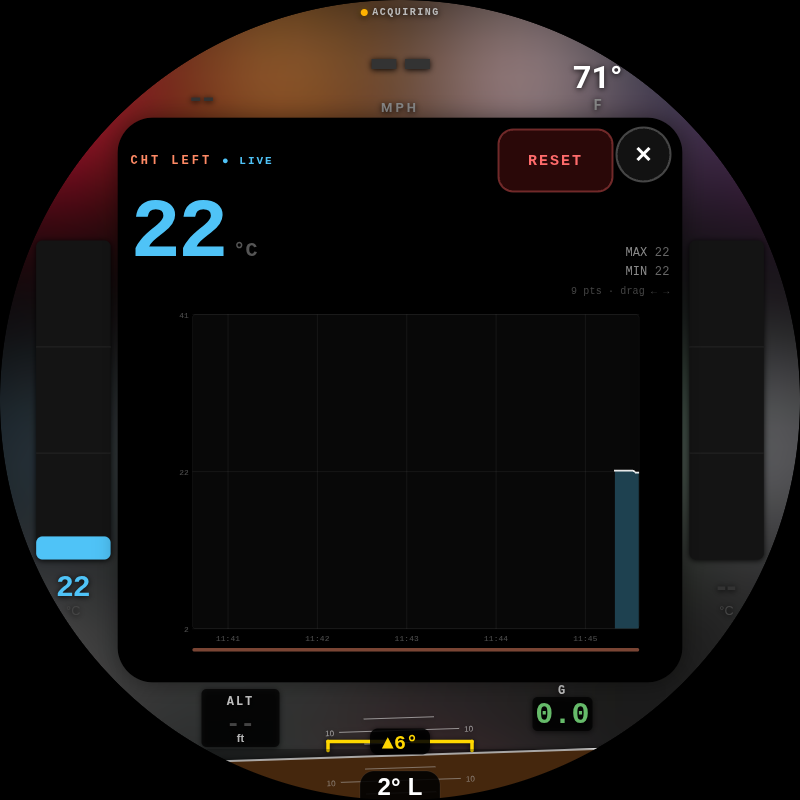
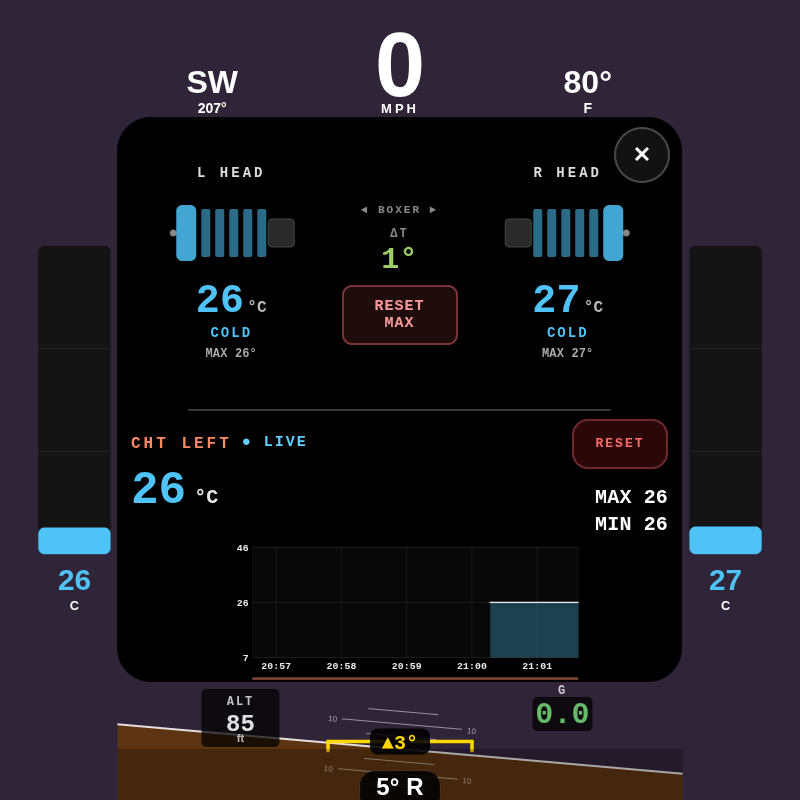
Refresh MotoCarPlay v2 README and screenshots

diff --git a/README.md b/README.md
@@ -8,103 +8,145 @@
 
 # LIVI - MotoCarPlay v2
 
-**A hardware-accelerated round-display Apple CarPlay dashboard with live
-motorcycle instrumentation, built for a 1975 BMW R75/6.**
+**A LIVI-based round-display Apple CarPlay dashboard with live motorcycle
+instrumentation, built for a 1975 BMW R75/6.**
 
-**Try the live browser demo -> [byronthegreat.com/projects/motocarplay](https://byronthegreat.com/projects/motocarplay/)**
-_(the dashboard UI running in your browser, driven by a simulated ride; the
-center CarPlay screen is a static screenshot)_
+**Try the browser demo -> [byronthegreat.com/projects/motocarplay](https://byronthegreat.com/projects/motocarplay/)**
+_(the demo tells the project story and simulates the dash in a browser; the
+motorcycle build in this repo is the LIVI/Raspberry Pi app)_
 
-> **Current version:** this repo is my LIVI-based MotoCarPlay v2 build. The
-> original prototype lives in
-> [byroncoughlin/round-carplay](https://github.com/byroncoughlin/round-carplay),
-> where I first adapted the round-screen idea for the motorcycle dash. This
-> version ports that work onto LIVI's modern Raspberry Pi foundation: native
-> GStreamer video, an embedded Linux compositor, cleaner restarts, hardware-aware
-> rendering, and the same round BMW airhead instrument cluster.
+This is the version I am carrying forward on the bike. The first MotoCarPlay
+prototype proved the round dashboard in
+[byroncoughlin/round-carplay](https://github.com/byroncoughlin/round-carplay).
+This repo ports that idea onto [LIVI](https://github.com/f-io/LIVI): native
+GStreamer projection, an embedded Linux compositor, a cleaner Pi app lifecycle,
+and a settings surface reduced to the controls that matter on the motorcycle.
 
-CarPlay runs in a centered square on an 800x800 round screen. The curved space
-around it shows sensor data read straight off the bike: cylinder-head temps,
-lean/pitch/G, GPS speed and heading, altitude, ambient temperature, and Pi CPU
-temperature. The optional backdrop lets CarPlay color bleed out to the bezel,
-either as an average sampled color or as a blurred, enlarged glow.
+CarPlay runs in the largest square that fits inside an 800x800 round Waveshare
+display. The curved space around it becomes the instrument cluster: speed,
+heading, altitude, ambient temperature, cylinder-head temperature on both jugs,
+lean, pitch, G-force, GPS diagnostics, and Pi CPU temperature.
 
 <p align="center">
-  <img src="documentation/images/dashboard.png" alt="MotoCarPlay dashboard" width="48%" />
+  <img src="documentation/images/dashboard.png" alt="LIVI MotoCarPlay dashboard" width="48%" />
 </p>
 
-> Photo note: on-bike photos of the display mounted in the R75/6 dash are still
-> coming. The screenshots here are the live dash UI.
-<!-- Add real mounted/riding photos here, e.g. documentation/images/bike-01.jpg -->
-
-> **This is a personal build with visible lineage.** LIVI provides the current
-> head-unit foundation. My earlier MotoCarPlay prototype started as a hard fork
-> of [OneMakerShow/round-carplay](https://github.com/OneMakerShow/round-carplay),
-> itself based on [f-io/pi-carplay](https://github.com/f-io/pi-carplay). The
-> motorcycle instrumentation is my rebuild for an old BMW with no OBD/CAN bus:
-> every reading comes from a sensor wired to the Pi.
+> The screenshots in this README are from the LIVI/MotoCarPlay v2 Pi build, not
+> the old round-carplay prototype.
 
 ---
 
 ## What it does
 
-### CarPlay, centered in the circle
+### CarPlay in a round screen
 
-Wireless CarPlay, via a Carlinkit adapter, renders in an 800x800 LIVI projection
-surface with the view area inset to create the largest clean square inside the
-round Waveshare panel. The result is the familiar CarPlay card in the middle and
-four curved pockets around it for the motorcycle:
+The phone sees an 800x800 CarPlay surface. LIVI then uses a 118 px view-area
+inset on each side so the visible CarPlay card lands as a 565x565 square inside
+the round display. The overlay treats the remaining curved bands as motorcycle
+gauges.
 
-| Arc | Shows |
+| Area | What it shows |
 |---|---|
 | **Top** | Compass heading, GPS speed, ambient temperature |
 | **Bottom** | Altitude, lean-angle inclinometer, pitch, G-force |
-| **Left / Right** | Cylinder-head temperature, one bar gauge per jug, color-coded by heat |
+| **Left / Right** | Cylinder-head temperature, one bar gauge per side |
+| **Center** | CarPlay from the adapter, rounded to match the dash |
 
-### Optional ambient backdrop
+### Live instrumentation
 
-The original prototype used a blurred, enlarged copy of the CarPlay frame to
-hide the square-in-a-circle problem. LIVI - MotoCarPlay v2 keeps that idea, but
-makes it an explicit opt-in setting.
+The R75/6 has no OBD port or CAN bus, so the dash learns the bike through
+standalone sensors wired to the Pi. GPS supplies speed, heading, altitude, fix
+state, satellite count, HDOP, and sky-view diagnostics. Thermocouples under the
+spark plugs watch the two cylinder heads. A BNO055 IMU provides lean, pitch, and
+G-force. A waterproof DS18B20 reads ambient air, and the Pi reports its own CPU
+temperature from inside the enclosure.
 
-| Mode | What it does |
-|---|---|
-| **Off** | Plain normal LIVI rendering. No sampling or backdrop work. |
-| **Average Color** | Samples the live CarPlay frame and fills the round edges with a smoothed average color. |
-| **Blur Glow** | Samples the live CarPlay frame, enlarges it, blurs it, and lets the color spill into the bezel. |
+### Tap-to-graph history
 
-The backdrop is there for the round-screen look, not as a requirement. I keep it
-disabled when I want the lightest possible head-unit mode.
-
-### Live graphing with risk zones
-
-Tap any metric to open a full-screen graph over the CarPlay card: a big live
-number, rolling **MIN / MAX**, a **RESET**, and a scrollable history. Graphs that
-matter for engine/board health get **color risk bands** painted under the trace:
-
-| Metric | Bands |
-|---|---|
-| **Cylinder-head temp** | cold (blue) -> normal (green) -> warm (amber) -> hot (red) |
-| **Pi CPU temp** | healthy (green) -> warm (amber) -> throttle (red) |
-
-Tap the **ambient** reading and the screen splits into a dual graph: ambient on
-top, Pi CPU temperature below. The Pi runs in a sealed case, so the CPU trace
-shows thermal headroom at a glance.
+Tap a metric and the center CarPlay card becomes a live graph. The graph view
+keeps the surrounding motorcycle context visible, shows current value plus
+rolling min/max, and lets me reset either the graph window or a peak value.
+Thermal graphs get risk-color bands so heat reads as a pattern instead of just a
+number.
 
 <p align="center">
-  <img src="documentation/images/graph-split.png" alt="Ambient and Pi CPU split graph" width="32%" />
+  <img src="documentation/images/graph-ambient.png" alt="Ambient and Pi CPU graph in LIVI MotoCarPlay" width="30%" />
   &emsp;
-  <img src="documentation/images/graph-cht.png" alt="Cylinder-head temp graph with risk band" width="32%" />
+  <img src="documentation/images/graph-cht.png" alt="Cylinder-head temp graph in LIVI MotoCarPlay" width="30%" />
+  &emsp;
+  <img src="documentation/images/graph-gps.png" alt="GPS diagnostics graph in LIVI MotoCarPlay" width="30%" />
 </p>
 
-### Keeps the right time without WiFi
+### Optional backdrop
 
-A Pi has no clock when it is powered off. Two things fix that. The Pi 5 RTC
-battery holds the time across power-off, so the clock is right at boot with no
-network. As a backup, `gps.py` sets the system clock from GPS UTC on the first
-valid fix when the time is badly off, so the dash stays correct even after days
-with no cell or WiFi. See
-[`PI_SETUP.md`](PI_SETUP.md#gps-clock-set-no-wifi-time-fix) for details.
+The square-in-a-circle problem is still real: black corners make the CarPlay
+window feel like a separate screen. MotoCarPlay v2 keeps backdrop as an explicit
+opt-in because I want normal mode to stay as light as possible.
+
+| Mode | Current behavior |
+|---|---|
+| **Off** | Normal LIVI video path. No backdrop sampling, blur branch, or renderer fill work. |
+| **Average Color** | GStreamer crops the visible CarPlay frame, downsamples it to a 32x32 RGB grid, averages every pixel in C++, and sends a color only when the change is visible. |
+| **Blur Glow** | GStreamer builds a native backdrop branch: crop, shrink, blur, and upscale the live frame behind the foreground CarPlay card. |
+| **Ambient Fill** | Uses a fixed color instead of a sampled/dynamic CarPlay backdrop. |
+
+The fallback is intentionally boring: if a backdrop pipeline cannot be built,
+the app falls back to the normal projection pipeline.
+
+### Time without WiFi
+
+A Pi has no reliable clock after power-off unless it has help. The Pi 5 RTC
+battery keeps time across shutdowns, and `gps.py` can set system time from GPS
+UTC on the first valid fix if the clock is badly wrong. See
+[`PI_SETUP.md`](PI_SETUP.md#gps-clock-set-no-wifi-time-fix).
+
+---
+
+## Current Settings
+
+The old prototype had one crowded settings panel with stream fields, audio
+toggles, kiosk mode, sample-data toggles, and bindings all mixed together. The
+LIVI motorcycle build is deliberately smaller. The Settings root has two
+sections:
+
+<p align="center">
+  <img src="documentation/images/settings-root.png" alt="LIVI MotoCarPlay settings root" width="42%" />
+  &emsp;
+  <img src="documentation/images/settings-system.png" alt="LIVI MotoCarPlay system settings" width="42%" />
+</p>
+
+### System
+
+These are the connection and projection controls I actually use on the bike.
+
+| Setting | Typical | What it does |
+|---|---|---|
+| **Wi-Fi Frequency** | 5 GHz | Chooses the dongle wireless band for CarPlay. |
+| **Auto Connect** | On | Lets LIVI bring the adapter/phone session back automatically. |
+| **Preferred Connection** | Dongle | Keeps the Carlinkit path preferred over native/auto transport choices. |
+| **FPS** | 45 | Projection frame rate requested from the phone. Lower than 60 keeps the Pi calmer. |
+| **DPI** | 140 | CarPlay UI density hint. |
+| **View Area** | 118 px each side | Insets the 800x800 stream so CarPlay fits the round display as a 565x565 card. |
+| **USB Dongle Info** | - | Live adapter/protocol/status details for debugging the Carlinkit connection. |
+| **About** | - | App/version/about information. |
+
+### Moto Display
+
+This section controls the motorcycle-specific layer around CarPlay.
+
+| Control | What it does |
+|---|---|
+| **Backdrop** | Completely enables/disables CarPlay-derived backdrop work. Off means the regular no-backdrop mode stays on the normal projection path. |
+| **Backdrop Style** | Chooses **Average Color** or **Blur Glow** when backdrop is enabled. |
+| **Ambient Fill** | Uses a fixed fill color around the CarPlay card. |
+| **Fill Color** | Picks the fixed ambient fill color. |
+| **Round Corners** | Applies the mask that keeps the CarPlay card visually rounded. |
+| **Tilt Calibration** | Stores lean/pitch offsets with the bike sitting level. |
+| **Graph History** | Clears the rolling graph samples. |
+
+Projection/backdrop mode changes are treated as app-lifecycle changes. When I
+save one, the settings window closes and the app relaunches cleanly instead of
+waiting on a partial adapter reset.
 
 ---
 
@@ -167,115 +209,65 @@ order). Excludes the 3D-printed enclosure and the iPhone you already own.
 > - The **BNO055 runs over UART, not I2C**. I had trouble with it on I2C.
 >   Details live in `sensors/imu.py`.
 > - The Waveshare panel is **HDMI**, so the Pi 5's micro-HDMI is adapted to it.
->   That's the little stack of HDMI adapters above.
 
 ---
 
-## Instrument wiring & Pi setup
+## Wiring & Pi setup
 
-Full reproduce-from-a-fresh-flash instructions live in
-**[`PI_SETUP.md`](PI_SETUP.md)**: `config.txt` overlays, sensor wiring pinouts,
-udev rules, the systemd user services, and the gotchas learned the hard way.
-
-Sensor scripts (`sensors/*.py`) each document their exact wiring in the file
-header. Quick map:
+Full reproduce-from-a-fresh-flash notes live in **[`PI_SETUP.md`](PI_SETUP.md)**:
+`config.txt` overlays, sensor wiring pinouts, udev rules, systemd user services,
+and the gotchas learned the hard way.
 
 | Sensor | Script | Bus |
 |---|---|---|
-| BNO055 IMU (lean/pitch/G) | `imu.py` | UART `/dev/ttyAMA0` |
-| CHT left/right (MAX31856 x2) | `cht_temp.py` | SPI0 (CE0 = left, CE1 = right) |
-| Ambient (DS18B20) | `ambient_temp.py` | 1-Wire (GPIO4) |
-| GPS (Adafruit Ultimate, USB) | `gps.py` | USB serial `/dev/gps` |
-| Pi CPU temp | `pi_temp.py` | `/sys/class/thermal` (no wiring) |
+| BNO055 IMU (lean/pitch/G) | `sensors/imu.py` | UART `/dev/ttyAMA0` |
+| CHT left/right (MAX31856 x2) | `sensors/cht_temp.py` | SPI0 (CE0 = left, CE1 = right) |
+| Ambient (DS18B20) | `sensors/ambient_temp.py` | 1-Wire (GPIO4) |
+| GPS (Adafruit Ultimate, USB) | `sensors/gps.py` | USB serial `/dev/gps` |
+| Pi CPU temp | `sensors/pi_temp.py` | `/sys/class/thermal` |
 
-For the full physical pin map, see **[`WIRING.md`](WIRING.md)**.
+For the physical 40-pin header map, see **[`WIRING.md`](WIRING.md)**.
 
 ---
 
-## Build & deploy the app
+## Build & deploy
 
-This repo is the current LIVI-based app. The browser demo remains at
-byronthegreat.com, but the motorcycle build is the arm64 AppImage from this
-repository.
-
-### Prerequisites
-
-- Node and **pnpm 11.x** (the repo declares `pnpm@11.5.3`)
-- Linux build dependencies for Electron, native USB modules, and the LIVI
-  compositor/GStreamer packaging scripts
-- FUSE/AppImage support on the target Pi
-
-### Build the arm64 AppImage
+This repo builds the current LIVI-based motorcycle app.
 
 ```bash
 pnpm run install:ci
-pnpm run build:armLinux:appimage  # -> dist/LIVI-*-linux-arm64.AppImage
+pnpm run build:armLinux:appimage
 ```
 
-### Deploy to the Pi
+That produces an arm64 AppImage under `dist/`, named like:
 
-```bash
-rsync -az --progress dist/LIVI-*-linux-arm64.AppImage \
-  [email redacted]:/home/byron/LIVI/LIVI.AppImage
+```text
+LIVI-*-linux-arm64.AppImage
 ```
 
-The Pi autostarts the AppImage on boot; the sensor scripts run as systemd user
-services. The app and the Python sensors talk over a local Socket.IO channel.
+My Pi autostart target is:
+
+```text
+/home/byron/LIVI/LIVI.AppImage
+```
+
+The app runs the projection/compositor side. The Python sensor scripts run as
+systemd user services and send readings to LIVI over local Socket.IO.
 
 ---
-
-## Settings reference
-
-Open Settings via the tuning icon. Projection/video changes and Moto Display
-mode changes can trigger a clean relaunch so the compositor and CarPlay session
-come back in the correct mode.
-
-<p align="center">
-  <img src="documentation/images/settings.png" alt="Settings" width="40%" />
-  &emsp;
-  <img src="documentation/images/info.png" alt="Info and dongle status" width="40%" />
-</p>
-
-### System
-
-| Setting | Typical | What it does |
-|---|---|---|
-| **Wi-Fi Frequency** | 5 GHz | Band the dongle uses for wireless CarPlay. |
-| **Auto Connect** | On | Reconnects to the preferred transport automatically. |
-| **Preferred Connection** | Dongle | Chooses dongle, native, or automatic transport behavior. |
-| **FPS** | 45 | Frames per second requested for the projection stream. |
-| **DPI** | 140 | UI scaling hint to the phone. Higher = denser. |
-| **View Area** | 118 px per side | Insets the 800x800 stream so CarPlay sits inside the round screen. |
-| **USB Dongle Info** | - | Shows dongle identity and connection state. |
-| **About** | - | LIVI/app information. |
-
-### Moto Display
-
-| Control | What it does |
-|---|---|
-| **Backdrop** | Enables/disables the optional ambient backdrop completely. |
-| **Backdrop Style** | Switches between **Average Color** and **Blur Glow**. |
-| **Ambient Fill** | Uses a fixed fill color around the CarPlay card. |
-| **Fill Color** | Chooses that fixed ambient fill color. |
-| **Round Corners** | Applies the mask that keeps the CarPlay card visually rounded. |
-| **Tilt Calibration** | Zeroes the lean/pitch readout with the bike sitting level. |
-| **Graph History** | Clears the rolling graph data. |
-
----
-
-## Disclaimer
-
-_Apple and CarPlay are trademarks of Apple Inc. This project is not affiliated
-with or endorsed by Apple. All trademarks are the property of their respective
-owners. Mounting a screen on a motorcycle and reading it while riding is done at
-your own risk. Keep your eyes on the road._
 
 ## Credits
+
+This is a personal build, but it sits on a lot of prior work:
 
 - Current head-unit foundation: [f-io/LIVI](https://github.com/f-io/LIVI)
 - Original Raspberry Pi CarPlay work: [f-io/pi-carplay](https://github.com/f-io/pi-carplay)
 - Round-screen CarPlay prototype base: [OneMakerShow/round-carplay](https://github.com/OneMakerShow/round-carplay)
 - MotoCarPlay v1 prototype/story/demo: [byroncoughlin/round-carplay](https://github.com/byroncoughlin/round-carplay)
+
+Apple and CarPlay are trademarks of Apple Inc. This project is not affiliated
+with or endorsed by Apple. Mounting a screen on a motorcycle and reading it
+while riding is done at your own risk. Keep your eyes on the road.
 
 ## License
 